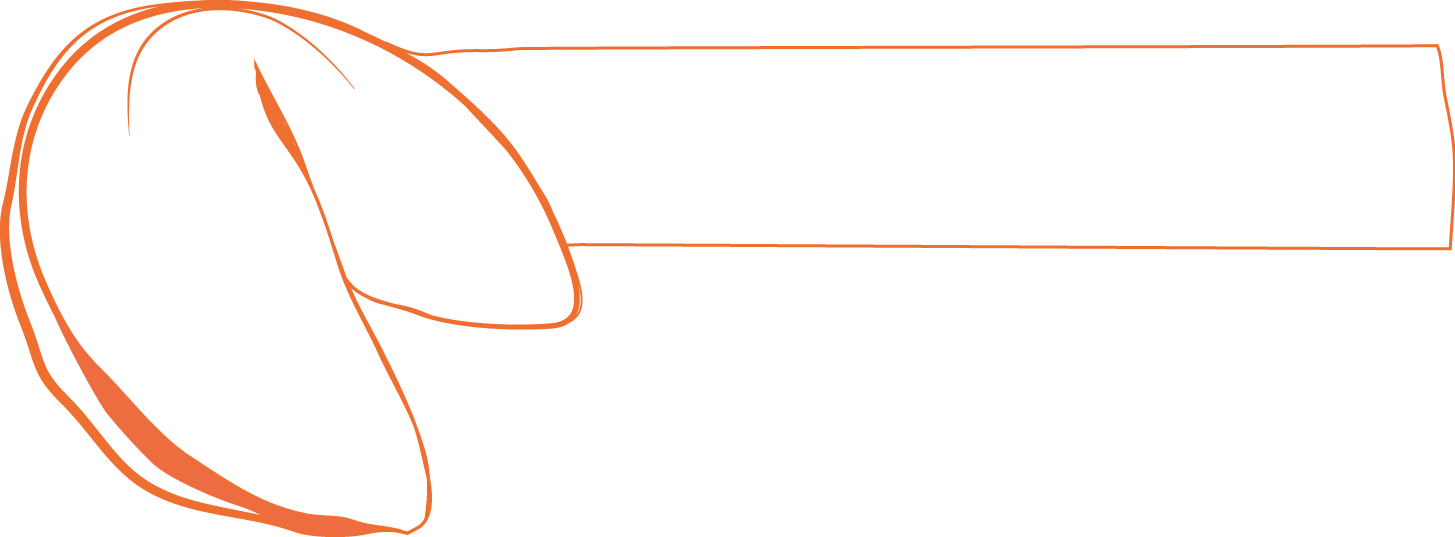
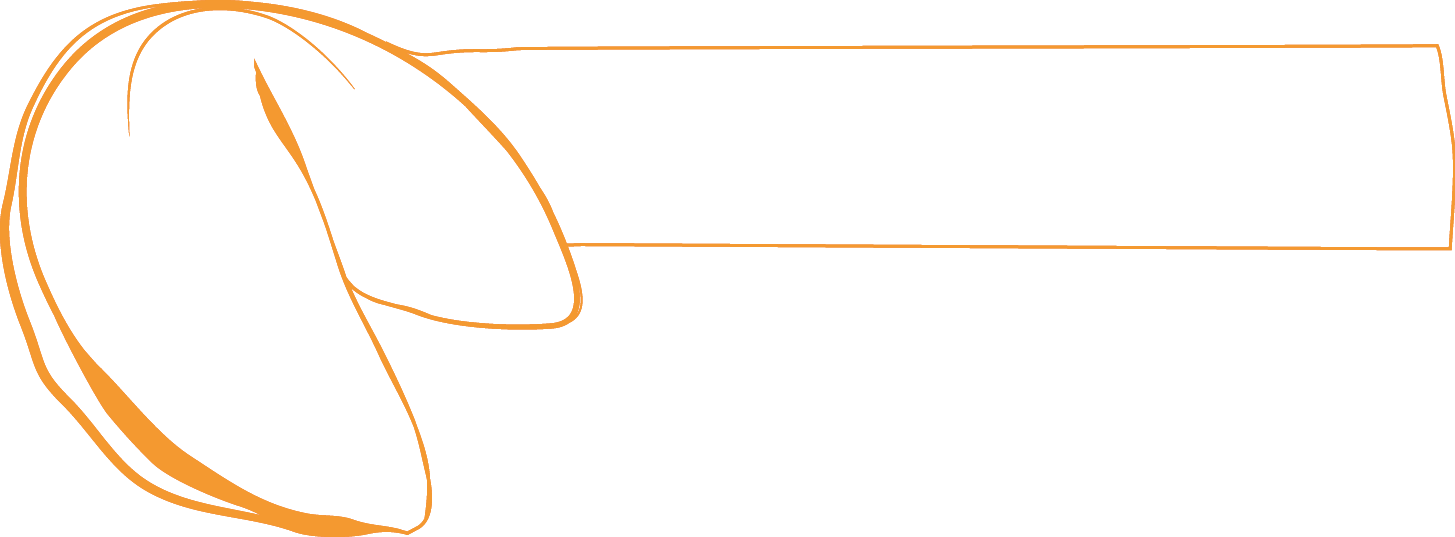
new look-feel

diff --git a/app/assets/stylesheets/application.css b/app/assets/stylesheets/application.css
@@ -19,13 +19,13 @@ body{
 }
 
 .background{
-  background:url('fortune.png') no-repeat -30px 270px #E52D2D;
+  background:url('fortune.png') no-repeat -30px 170px #E52D2D;
   width:100%;
   height:100%;
   min-height:850px;
 }
 .background2{
-  background:url('fortune2.png') no-repeat -30px 180px #E52D2D;
+  background:url('fortune2.png') no-repeat -30px 80px #E52D2D;
   width:100%;
   height:100%;
   min-height:850px;
@@ -35,18 +35,45 @@ body{
 width: 600px;
 max-width: 1100px;
 margin-left:550px;
-padding-top: 210px;
+padding-top: 110px;
 }
-.container2{display:none;}
+.container2{}
+
+.showstuff{
+  display:none;
+}
+
 .btn{
   padding: 12px;
 border-radius: 9px;
 }
 
+.btn.btn-warning{
+  background-color:#f49930;
+font-family: 'Raleway', sans-serif;
+width: 192px;
+text-align:center;
+}
+.btn.btn-warning a{
+  text-decoration:none;
+  color:#fff;
+}
+.btn.btn-warning a:hover{
+  text-decoration:none;
+  background-color:none;
+} 
+
+.show.btn.btn-warning{
+  position: relative;
+top: 460px;
+left: 750px;
+}
+
+
 select{
   width: 90px;
   height: 40px;
-background-color:#ED6C40;
+background-color:#f49930;
 -webkit-appearance: none;
 padding: 10px;
 color:#fff;
@@ -69,10 +96,6 @@ margin-top: 15px;
 
 }
 
-.btn.btn-warning{
-  background-color:#ED6C40;
-}
-
 #prediction_prediction{
   width:270px;
 }
@@ -82,6 +105,6 @@ font-size:17px;
 }
 
 input{
-  border:1px solid #ED6C40;
-  background-color:#ED6C40;
+  border:1px solid #f49930;
+  background-color:#f49930;
 }
